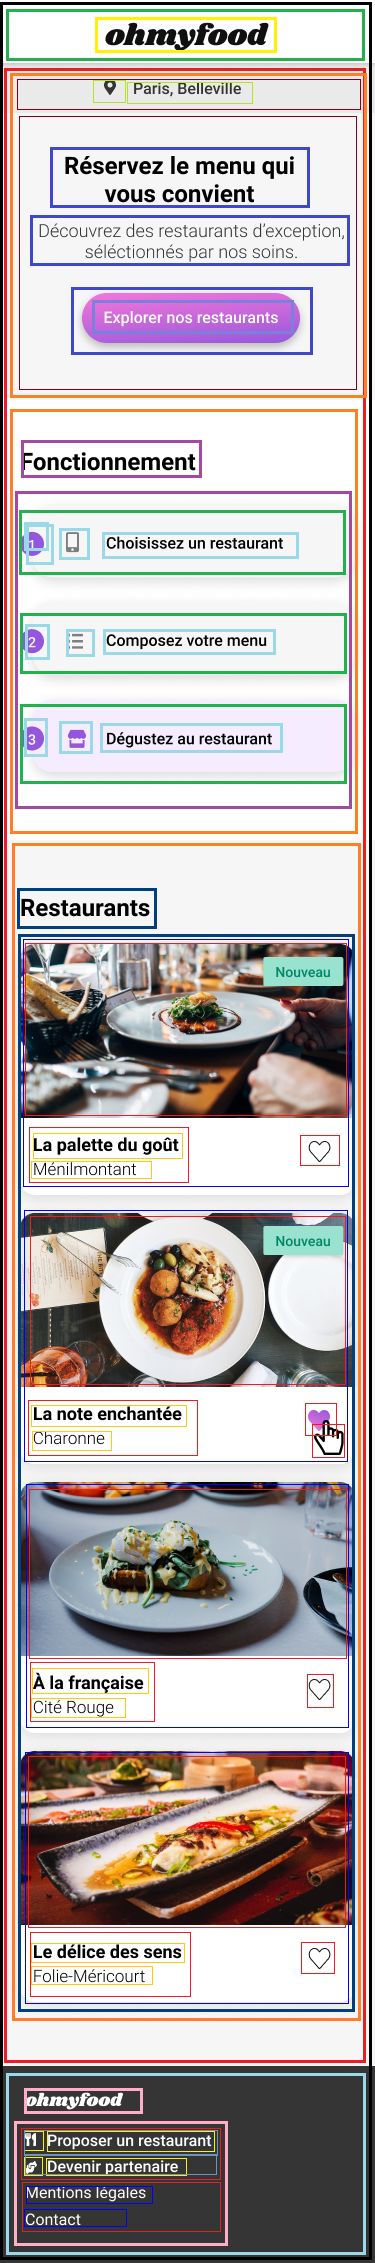
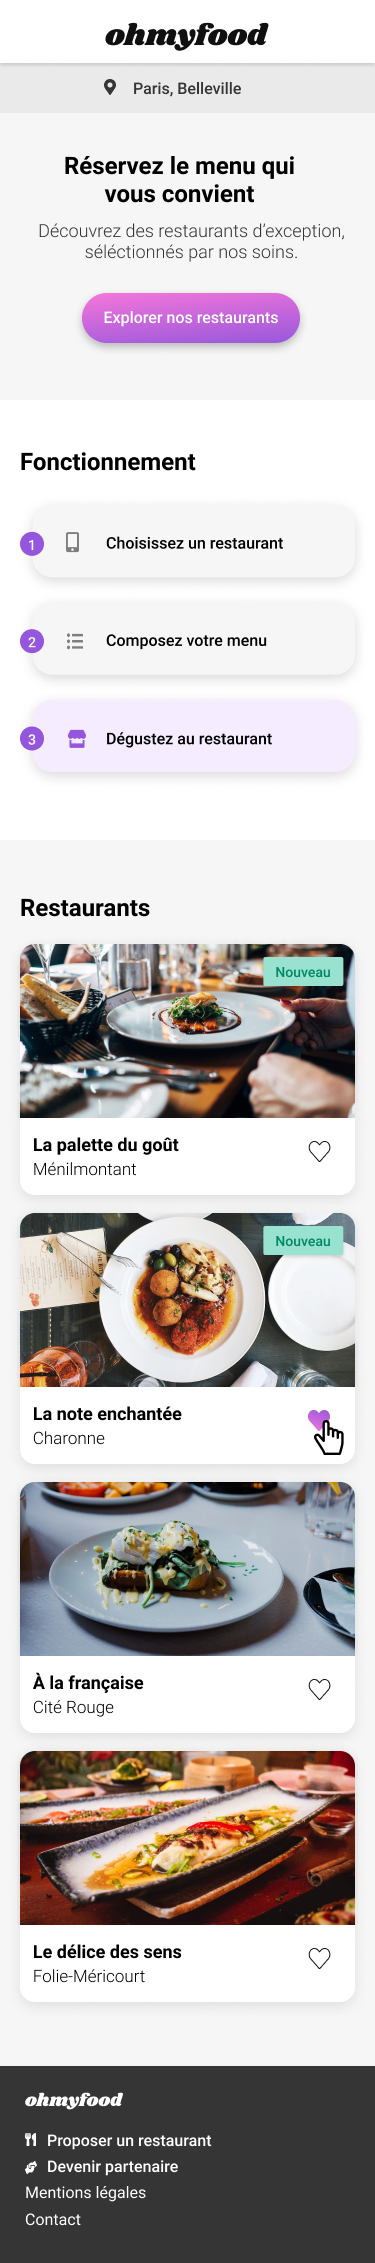
changements pas necessaires

diff --git a/.public/css/style.css b/.public/css/style.css
@@ -1,3 +1,11 @@
+body {
+  font-family: "Roboto", sans-serif;
+  margin: 0px;
+  background-color: #f6f6f6;
+}
 
+* a {
+  text-decoration: none;
+}
 
 /*# sourceMappingURL=style.css.map */

diff --git a/SASS/main.scss b/SASS/main.scss
@@ -1,3 +1,9 @@
 body {
-    
+   font-family: 'Roboto', sans-serif;
+   margin: 0px;
+   background-color: #f6f6f6; 
+}
+
+* a {
+    text-decoration: none;
 }
